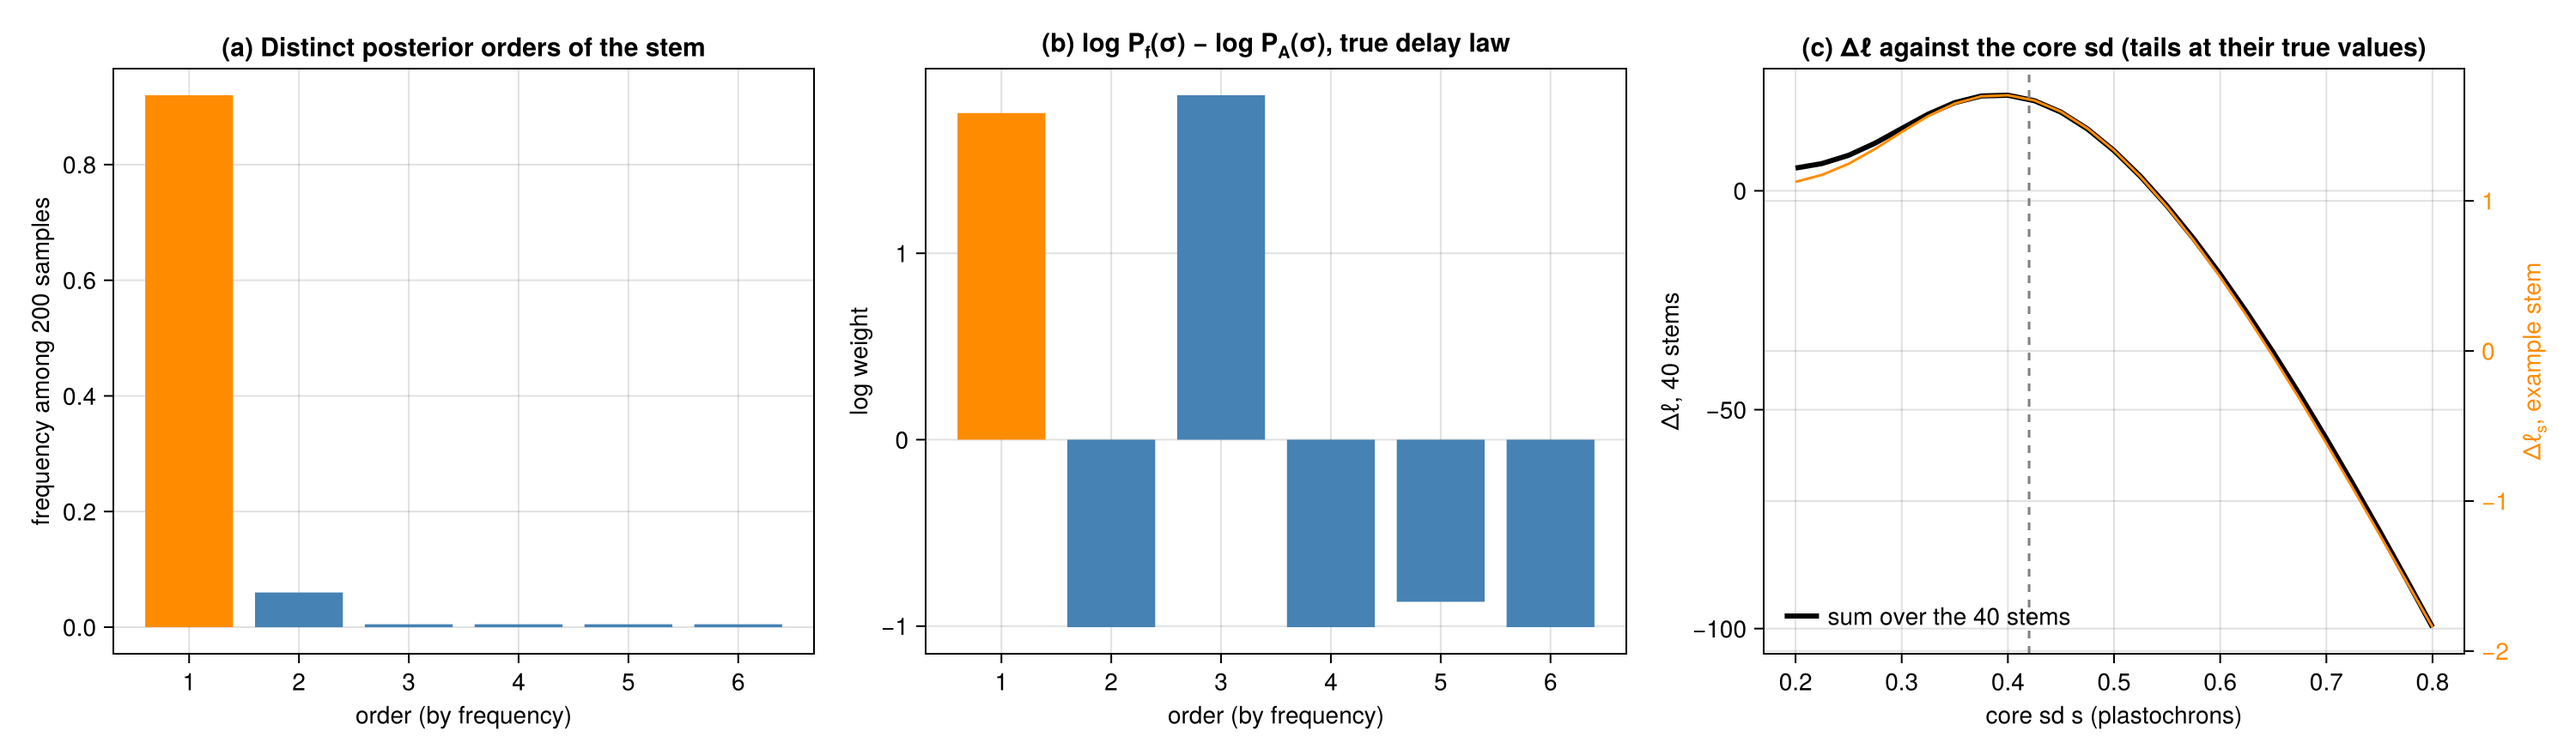
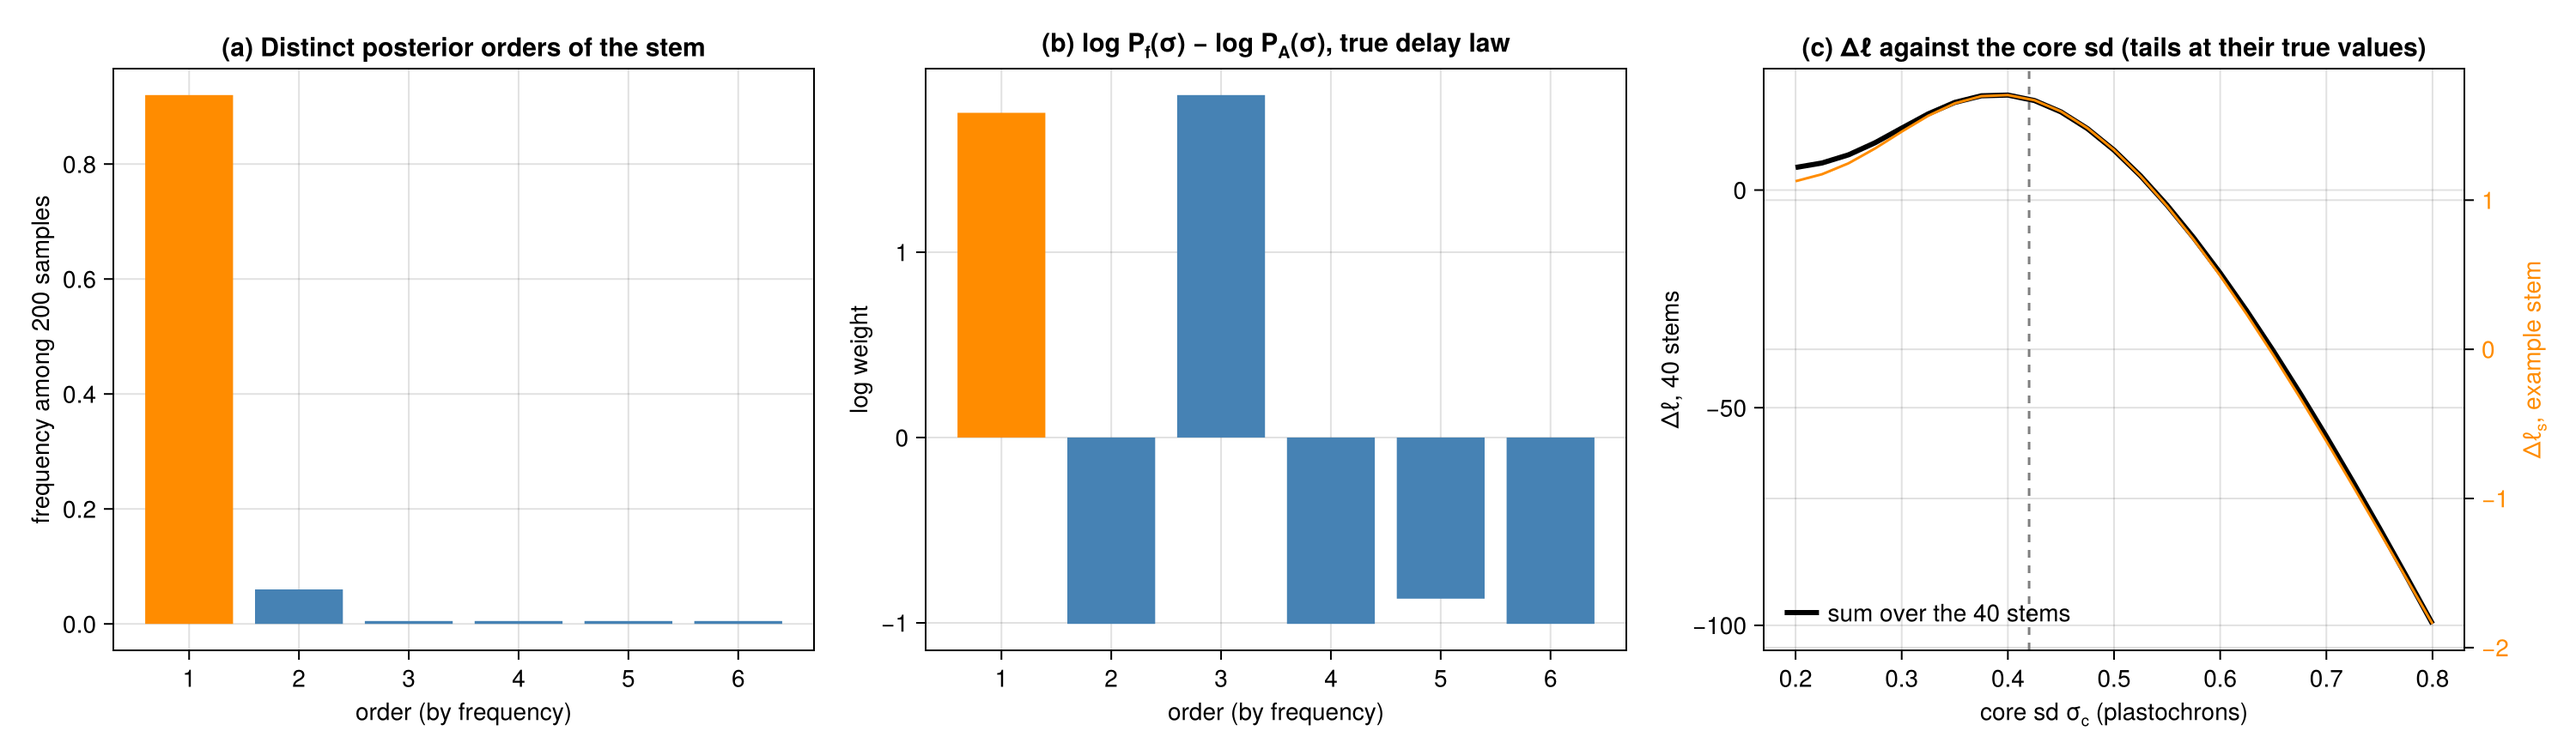
Core sd of the delay law renamed σ_c; PermanentWorkspace defaults to the scaled pass; Figure 3 tidied
- DelayLaw field s renamed σc, and the key :s of delay_law_inference's estimate and se renamed :σc, so that s is only
  the stem index; σ_c in the manual (§5, §6, the worked analysis, the notation table), the README and the tests; the
  simulated commitment sd of the clock-drift script is σ0
- figures e5 and v3 re-rendered with the σ_c label
- PermanentWorkspace(...; logspace = false) by default, as PhyllotaxisModelAD and StemWorkspace (same result, the
  scaled pass falls back to log-space by itself)
- simulator docstrings: the twist rate is ω_s
- Figure 3 of §2.5: shorter caption; figures centred by docs/src/assets/custom.css

diff --git a/docs/src/assets/custom.css b/docs/src/assets/custom.css
@@ -1,0 +1,6 @@
+/* figures centred in the page */
+.content p > img {
+  display: block;
+  margin-left: auto;
+  margin-right: auto;
+}

diff --git a/docs/src/timing.md b/docs/src/timing.md
@@ -143,15 +143,15 @@ Recall the mechanism of [§1.4](problem.md): site ``i`` is ready at time ``i`` (
 ``\tau_i``. Only differences of delays matter, so ``f`` is defined up to a shift, and its core is centred at 0.
 
 **Two sites first.** Sites 1 and 2 are swapped when site 2 commits first: ``2 + e_2 < 1 + e_1``, that is
-``e_1 - e_2 > 1``. If the delays are Gaussian with sd ``s``, their difference is Gaussian with sd ``s\sqrt 2``, and
+``e_1 - e_2 > 1``. If the delays are Gaussian with sd ``\sigma_c``, their difference is Gaussian with sd ``\sigma_c\sqrt 2``, and
 
 ```math
-P(2\,1) = \Phi\!\left(-\frac{1}{s\sqrt 2}\right).
+P(2\,1) = \Phi\!\left(-\frac{1}{\sigma_c\sqrt 2}\right).
 ```
 
-With ``s = 0.42`` plastochron, this is 4.6 %: about one pair of neighbours in twenty. The same reasoning shows why a
+With ``\sigma_c = 0.42`` plastochron, this is 4.6 %: about one pair of neighbours in twenty. The same reasoning shows why a
 Gaussian alone is not the whole story: a displacement by two needs ``e_i - e_{i+2} > 2``, of probability
-``\Phi(-2/(s\sqrt 2)) \approx 4 \times 10^{-4}``, one pair in 2600. Real stems have many more ([§5.6](timing.md)).
+``\Phi(-2/(\sigma_c\sqrt 2)) \approx 4 \times 10^{-4}``, one pair in 2600. Real stems have many more ([§5.6](timing.md)).
 
 **Any number of sites.** The organ at height ``p`` comes from site ``\sigma(p)``. So ``\sigma`` is the order on the
 stem exactly when ``\tau_{\sigma(1)} < \tau_{\sigma(2)} < \dots < \tau_{\sigma(n)}``. Call
@@ -260,7 +260,7 @@ commits before site 2, as it should.
     counts the cell that contains ``t`` for one half (midpoint rule). Counting it in full would treat two times in the
     same cell as ordered, which biases ``\log P_f(\sigma)`` upwards at first order in the step: by +0.28 for an order
     of 6 sites with three displacements. The midpoint rule leaves an error below 0.01. The tests check the two-site
-    closed form ``\Phi(1/(s\sqrt2))``, that the probabilities of all 24 orders of 4 sites sum to 1, and the frequencies
+    closed form ``\Phi(1/(\sigma_c\sqrt2))``, that the probabilities of all 24 orders of 4 sites sum to 1, and the frequencies
     of the orders drawn from the delay law.
 
 A stem of 45 organs is scored in a fraction of a millisecond, and step 1 provides exactly the orders worth scoring:
@@ -307,7 +307,7 @@ seconds: neither the angles nor the permanents are recomputed.
 log-weight ``\log P_f(\sigma) - \log P_A(\sigma)`` of each, under the true delay law: a ratio of two probabilities,
 not the probability of the order under ``f``. The true order is in orange.
 (c) ``\Delta\ell`` summed over the 40 stems (black) and the term of the example stem (orange, right axis), as a
-function of the core sd ``s``, the tails kept at their true values. The dashed line is the true ``s``.*
+function of the core sd ``\sigma_c``, the tails kept at their true values. The dashed line is the true ``\sigma_c``.*
 
 Figure 2 shows the identity at work. On the example stem, the true order carries 90 % of the posterior samples and
 seven others share the rest (a). The true delay law finds the true order about six times more probable than the
@@ -334,25 +334,25 @@ sample size is small is scored imprecisely; more posterior samples help.
 **assumption** — the delay is a precise Gaussian core, plus two exponential tails for sites committed late or early:
 
 ```math
-f = (1 - \pi_L - \pi_E)\, \mathcal N(0, s^2)
-+ \pi_L\, \big(\mathcal N(0, s^2) \ast \mathrm{Exp}(m_L)\big)
-+ \pi_E\, \big(\mathcal N(0, s^2) \ast (-\mathrm{Exp}(m_E))\big).
+f = (1 - \pi_L - \pi_E)\, \mathcal N(0, \sigma_c^2)
++ \pi_L\, \big(\mathcal N(0, \sigma_c^2) \ast \mathrm{Exp}(m_L)\big)
++ \pi_E\, \big(\mathcal N(0, \sigma_c^2) \ast (-\mathrm{Exp}(m_E))\big).
 ```
 
-The core sd ``s`` is the precision of a typical commitment. A fraction ``\pi_L`` of the sites is late by an extra
+The core sd ``\sigma_c`` is the precision of a typical commitment. A fraction ``\pi_L`` of the sites is late by an extra
 exponential delay of mean ``m_L``, and a fraction ``\pi_E`` early by ``m_E``. Why tails? A Gaussian core of sd 0.42
 makes neighbour swaps common but displacements by two very rare ([§5.2](timing.md)). A tail gives exactly what a
 Gaussian cannot: one organ displaced by two or three positions while its neighbours stay in order. For three sites,
 the orders 3 1 2 and 2 3 1 have a probability of 0.03 % under the Gaussian core alone, and 2.4 % under the law of the
 running example, whose tails hold 12 % of the sites.
 
-Three nested variants are fitted: `:core` (``s``), `:late` (``s, \pi_L, m_L``) and `:both` (all five). Comparing their
+Three nested variants are fitted: `:core` (``\sigma_c``), `:late` (``\sigma_c, \pi_L, m_L``) and `:both` (all five). Comparing their
 ``\Delta\ell`` tells whether the orders call for tails, and on which side.
 
 !!! details "The density"
-    A Gaussian of sd ``s`` convolved with an exponential of rate ``\lambda = 1/m`` (an exponentially modified
+    A Gaussian of sd ``\sigma_c`` convolved with an exponential of rate ``\lambda = 1/m`` (an exponentially modified
     Gaussian) has the density
-    ``\lambda \exp\!\big(\lambda(\lambda s^2/2 - x)\big)\, \Phi\big((x - \lambda s^2)/s\big)``, with ``x = z`` for the
+    ``\lambda \exp\!\big(\lambda(\lambda \sigma_c^2/2 - x)\big)\, \Phi\big((x - \lambda \sigma_c^2)/\sigma_c\big)``, with ``x = z`` for the
     late tail and ``x = -z`` for the early one. The mixture is evaluated in log space on `DELAY_GRID` and
     renormalised there.
 
@@ -371,7 +371,7 @@ q_d = P(\text{site } i + d \text{ commits before site } i) = P(e_i - e_{i+d} > d
 - **It has no direction.** ``q_d`` depends on ``f`` only through the law of a *difference* of two delays, which is
   the same whether the off-time sites are late or early. The late/early split rests on rarer patterns of three
   organs (2 3 1 against 3 1 2), and is only weakly identified.
-- **The parameters of ``f`` are readings of its shape.** The core sd ``s``, the tail masses ``\pi`` and ``m``, and
+- **The parameters of ``f`` are readings of its shape.** The core sd ``\sigma_c``, the tail masses ``\pi`` and ``m``, and
   properties of ``f`` itself such as the **off-time fraction** ``P(|e| > 1)`` (`tail_masses`) are not seen directly.
   They follow from the profile only through the assumed shape (a Gaussian core with exponential tails). When that
   shape is unambiguous they are well determined: for light tails, the core and the off-time fraction are recovered.
@@ -387,7 +387,7 @@ it, within its assumed shape: how precise a typical commitment is, and how many 
 ## 5.7 Fit, uncertainty and comparisons
 
 - **Fit.** `fit_delay_law(samples, variant)` maximises ``\Delta\ell`` by Newton's method with a trust region, on
-  unconstrained parameters: ``\log s``; for `:both`, ``\operatorname{logit}(\pi_L + \pi_E)``, the logit of the late
+  unconstrained parameters: ``\log \sigma_c``; for `:both`, ``\operatorname{logit}(\pi_L + \pi_E)``, the logit of the late
   share ``\pi_L/(\pi_L + \pi_E)``, ``\log m_L`` and ``\log m_E``. The tail mass and the late share are separate
   coordinates because the first is better determined than the second. The grid is fixed, so ``\Delta\ell``
   is a smooth function of the parameters. Its gradient and Hessian are exact: forward-mode dual numbers pass through
@@ -397,7 +397,7 @@ it, within its assumed shape: how precise a typical commitment is, and how many 
   therefore measures the uncertainty from the spread of the per-stem slopes ``g_s`` of these terms, not from the
   curvature ``H`` of their sum alone. This is the sandwich covariance
   ``H^{-1}\big(\sum_s g_s g_s^\top\big)H^{-1}``, with exact derivatives. The delta method then gives the standard
-  errors of ``s``, of the tail masses and of the profile ``q_1, \dots, q_4`` (`overtaking`).
+  errors of ``\sigma_c``, of the tail masses and of the profile ``q_1, \dots, q_4`` (`overtaking`).
 - **The profile without a delay law.** `overtaking_profile(samples)` averages, over each stem's posterior samples,
   the fraction of pairs ``d`` apart that are inverted, and pools the stems. Its standard errors are clustered by
   stem. It needs no delay law, so it is also a check of the fitted one: the two profiles should agree.
@@ -439,7 +439,7 @@ it, within its assumed shape: how precise a typical commitment is, and how many 
     standard error of ``\bar T`` is the delta method through the covariance of the fit, and that of ``x\,\bar T``
     combines both, as independent: ``\sqrt{(\bar T\,\mathrm{se}_x)^2 + (x\,\mathrm{se}_{\bar T})^2}``.
 
-**Code.** `DelayLaw(s; πL, mL, πE, mE)`, `rand([rng,] f)`, `delay_logdensity(f)`, `tail_masses(f; a = 1)`;
+**Code.** `DelayLaw(σc; πL, mL, πE, mE)`, `rand([rng,] f)`, `delay_logdensity(f)`, `tail_masses(f; a = 1)`;
 `loglik_order_exact(σ, f)` (or `(σ, logg, grid, γ)`); `order_samples(order_posterior(m, fit; nsamples), η)`,
 `stem_terms(samples, f)`, `relative_loglik(samples, f)` (`stem_terms(samples, logP)` scores any law of the order given
 as ``\sigma \mapsto \log P(\sigma)``); `fit_delay_law`, `delay_law_inference`, `shared_core_test`; the profile:

diff --git a/docs/src/validation.md b/docs/src/validation.md
@@ -27,7 +27,7 @@ The stems are made to resemble the *Arabidopsis* data:
 
 The orders come from independent commitment delays ([§5.2](timing.md)), with three delay laws (in plastochrons):
 
-| scenario | core sd ``s`` | late tail | early tail | ``P(\lvert e\rvert > 1)`` |
+| scenario | core sd ``\sigma_c`` | late tail | early tail | ``P(\lvert e\rvert > 1)`` |
 |---|---|---|---|---|
 | no tails | 0.42 | — | — | 1.7 % |
 | light tails | 0.42 | 5 % (mean 1.5) | 5.4 % (mean 1.04) | 6.5 % |
@@ -138,7 +138,7 @@ beats the true one (triangles, the optimism of the fit).*
 
 Truth, then the `:both` fits of the three replicates (the readings of [§5.6](timing.md)):
 
-| scenario | ``s`` | ``P(e > 1)`` | ``P(e < -1)`` | ``P(\lvert e\rvert > 1)`` | tails gain (``\Delta\ell``) |
+| scenario | ``\sigma_c`` | ``P(e > 1)`` | ``P(e < -1)`` | ``P(\lvert e\rvert > 1)`` | tails gain (``\Delta\ell``) |
 |---|---|---|---|---|---|
 | no tails | 0.42 → 0.32, 0.39, 0.37 | 0.009 → 0.010, 0.029, 0.033 | 0.009 → 0.008, 0.002, 0.001 | 0.017 → 0.018, 0.031, 0.034 | 1.6, 0.2, 0.4 |
 | light tails | 0.42 → 0.41, 0.41, 0.38 | 0.035 → 0.043, 0.045, 0.043 | 0.030 → 0.018, 0.021, 0.026 | 0.065 → 0.061, 0.065, 0.069 | 129, 125, 96 |
@@ -147,7 +147,7 @@ Truth, then the `:both` fits of the three replicates (the readings of [§5.6](ti
 **What we find**, from the most to the least robust:
 
 1. **No false tails.** When the truth has none, the tails add 0.2 to 1.6 units of log-likelihood. The `:core` fit then
-   recovers the law: ``s`` = 0.40, 0.43, 0.42 and an off-time fraction of 0.013, 0.019, 0.018 for 0.017. The `:both`
+   recovers the law: ``\sigma_c`` = 0.40, 0.43, 0.42 and an off-time fraction of 0.013, 0.019, 0.018 for 0.017. The `:both`
    fit is too flexible here ([§5.6](timing.md)). In two replicates it puts nearly every site in a short "tail" (mean
    0.2 plastochron) that only reshapes the core, and its off-time fraction drifts to 0.031–0.034, about one standard
    error (0.015) above the truth. When the tails gain little, read the `:core` fit.
@@ -156,7 +156,7 @@ Truth, then the `:both` fits of the three replicates (the readings of [§5.6](ti
    error for the light-tailed law. For the heavy-tailed law it is about 0.02 too high in all three replicates (about
    2 se): a 10 % overestimate when a fifth of the organs are off time. Without tails it drifts (point 1).
 4. **The core sd is recovered when the tails are light** (0.38–0.41 for 0.42), **but not when they are heavy.** For
-   the heavy-tailed law (47 % of the sites in a tail), the fitted core collapses: ``s`` falls to about 0.01, below the
+   the heavy-tailed law (47 % of the sites in a tail), the fitted core collapses: ``\sigma_c`` falls to about 0.01, below the
    step of the delay grid (0.05), where a narrower core no longer changes anything. Its standard error is
    misleadingly small. A narrow core plus more tail mass predicts nearly the same orders. The overestimated off-time
    fraction of point 3 comes with this collapse; a shared core ([§6.5](validation.md)) usually removes both.
@@ -188,7 +188,7 @@ as real data would have.
 
 Truth, then the shared-core fit of each replicate (estimate ± se):
 
-| replicate | shared ``s`` | off-time, light tails | off-time, heavy tails | difference | likelihood ratio (``p``) |
+| replicate | shared ``\sigma_c`` | off-time, light tails | off-time, heavy tails | difference | likelihood ratio (``p``) |
 |---|---|---|---|---|---|
 | truth | 0.42 and 0.39 | 0.065 | 0.197 | 0.132 | |
 | 1 | 0.40 ± 0.02 | 0.062 ± 0.006 | 0.200 ± 0.010 | 0.138 ± 0.012 | 2.7 (0.10) |
@@ -206,18 +206,18 @@ from the orders, with no delay law: 0.100, 0.102, 0.102 for ``q_1`` (± 0.008), 
 **What we find.**
 
 - **When the light-tailed group holds the core, the shared core removes the bias** (replicates 1 and 2). The shared
-  ``s`` (0.40–0.41) lies between the two true cores. The heavy-tailed off-time fraction falls from 0.215–0.218 to
+  ``\sigma_c`` (0.40–0.41) lies between the two true cores. The heavy-tailed off-time fraction falls from 0.215–0.218 to
   0.200–0.203, for 0.197, and the difference between the groups is recovered within its standard error.
 - **The likelihood ratio does not reject the shared core**, even though the true cores differ by 0.03. A difference
   this small is beyond what 60 stems can detect, and it does no visible harm to the estimates.
 - **It can fail, and this can be seen** (replicate 3). There the shared core collapses as well, and the light-tailed
   group's off-time fraction is pulled up (0.093 for 0.065). This is the true maximum, not a failure of the optimiser:
-  profiled over ``s``, that light-tailed data set loses only 1 unit of log-likelihood when its core shrinks from 0.4 to
-  0.01, while the heavy-tailed one gains 3. Its own fit gave ``s`` = 0.38 ± 0.04, but the standard error hides a
+  profiled over ``\sigma_c``, that light-tailed data set loses only 1 unit of log-likelihood when its core shrinks from 0.4 to
+  0.01, while the heavy-tailed one gains 3. Its own fit gave ``\sigma_c`` = 0.38 ± 0.04, but the standard error hides a
   lopsided profile: the data bound the core from above, not from below.
 
 **In practice.** Compare the groups by their profiles. To read them in terms of the law, fit each group alone, then
-together. If the shared ``s`` stays close to the light-tailed group's own ``s``, report the shared-core estimates. If it collapses far below it, the light-tailed group does not hold the core:
+together. If the shared ``\sigma_c`` stays close to the light-tailed group's own ``\sigma_c``, report the shared-core estimates. If it collapses far below it, the light-tailed group does not hold the core:
 report the separate fits, with the caveat of [§6.4](validation.md) point 4.
 
 ## 6.6 The exact order likelihood and the weights
@@ -251,7 +251,7 @@ Here the orders are simulated from a clock of intervals ``1 + \xi_i``, ``\xi_i \
 followed by Gaussian commitment delays of sd 0.3. The delay law is fitted to the **true** orders (no angles), so only
 the timing model is tested: three data sets of 60 stems of 45 organs per value of ``\sigma_\xi``, and one of 1200
 stems to see the bias without noise. The *matched* law is the independent Gaussian with the same rate of neighbour
-swaps (``s^2 = 0.3^2 + \sigma_\xi^2/2``).
+swaps (``\sigma_c^2 = 0.3^2 + \sigma_\xi^2/2``).
 
 | ``\sigma_\xi`` | tails gain, 60 stems | off-time, 60 stems | tails gain, 1200 stems | off-time, 1200 stems | off-time, matched law |
 |---|---|---|---|---|---|

diff --git a/docs/src/angles.md b/docs/src/angles.md
@@ -115,14 +115,11 @@ p(y) = \sum_{o,\,\psi} p(o)\,p(\psi) \int_0^{2\pi} \frac{d\phi}{2\pi} \int p(\ka
 ![Plate diagram of the angle likelihood](figures/m3_plate_diagram.svg)
 
 *Figure 3. The model as a graph, with the law of the order of [§4](propensity.md). Circles are unknown, the shaded
-circle is observed, and the shaded square is the stem length ``x_{sp}`` below each organ, which is given. Each arrow
-points from a quantity to the ones whose law depends on it. A box (plate) repeats what is inside it: once per stem,
-and within each stem once per organ. Dashed boxes are the fixed parameters of the priors (named as in
-`PhyllotaxisPrior` and `TorsionPrior`). ``z_{sp}`` says whether angle ``p`` of stem ``s`` is an outlier
-([§2.4](angles.md)). Double circles are discrete unknowns summed out exactly: the order ``\sigma_s`` ([§3](orders.md)),
-the orientation ``o_s`` and the divergence ``\psi_s`` ([§2.6](angles.md)), and ``z_{sp}`` (the mixture of
-[§2.4](angles.md)). Single circles inside the plates are continuous unknowns integrated out numerically: the offset
-``\phi_s``, the precision ``\kappa_s`` and the twist rate ``\omega_s`` ([§2.6](angles.md)).*
+circle is observed and the square is given; arrows point to the quantities whose law they set, and the plates repeat
+their content per stem and per organ. Double circles are summed out exactly: the order ``\sigma_s`` ([§3](orders.md)),
+``o_s`` and ``\psi_s`` ([§2.6](angles.md)), and the outlier indicator ``z_{sp}`` ([§2.4](angles.md)). Single circles
+are integrated numerically ([§2.6](angles.md)). Dashed boxes are the fixed parameters of `PhyllotaxisPrior` and
+`TorsionPrior`.*
 
 Everything here is fixed by this page except ``P(\sigma)``, the law of the order. The models of the package differ
 *only* in ``P(\sigma)`` (the propensity model of [§4](propensity.md), the timing laws of [§5](timing.md)), which is

diff --git a/docs/src/workflow.md b/docs/src/workflow.md
@@ -138,7 +138,7 @@ The estimates of the `:both` law (± robust se), with the truth:
 
 | | wild type | truth | mutant | truth |
 |---|---|---|---|---|
-| core sd ``s`` (plastochron) | 0.41 ± 0.03 | 0.42 | 0.30 ± 0.09 | 0.42 |
+| core sd ``\sigma_c`` (plastochron) | 0.41 ± 0.03 | 0.42 | 0.30 ± 0.09 | 0.42 |
 | late, ``P(e > 1)`` | 0.032 ± 0.006 | 0.035 | 0.141 ± 0.018 | 0.113 |
 | early, ``P(e < -1)`` | 0.038 ± 0.008 | 0.028 | 0.019 ± 0.009 | 0.027 |
 | off time, ``P(\lvert e\rvert > 1)`` | 0.071 ± 0.008 | 0.062 | 0.160 ± 0.014 | 0.140 |
@@ -189,7 +189,7 @@ maturation takes the same time throughout flowering), so the counts give the pla
 # counts: one vector per plant, the cumulative number of open flowers at the end of each day (NaN: a day not recorded)
 fl = fit_flowering(counts_wt)
 T = mean_plastochron(fl, [1:40 for _ in 1:50])      # mean plastochron of the measured organs (ranks 1–40), in hours
-in_hours(inf2.estimate[1].s, inf2.se[1].s, T)       # the shared core sd, in hours
+in_hours(inf2.estimate[1].σc, inf2.se[1].σc, T)       # the shared core sd, in hours
 ```
 
 `fit_flowering` fits a flowering rate that rises, then declines from a change point specific to each plant, until the
@@ -206,7 +206,7 @@ Over the measured ranks, the plastochron of the median plant shortens from about
 7.67 ± 0.14 h in the wild type and 7.78 ± 0.14 h in the mutant (truth 7.65 h). `in_hours` multiplies, and combines the
 two uncertainties, treated as independent since they come from different data:
 
-| core sd ``s`` | in plastochrons | in hours | truth (hours) |
+| core sd ``\sigma_c`` | in plastochrons | in hours | truth (hours) |
 |---|---|---|---|
 | wild type, fitted alone | 0.41 ± 0.03 | 3.1 ± 0.3 | 3.2 |
 | shared core | 0.38 ± 0.05 | 2.9 ± 0.4 | 3.2 |

diff --git a/README.md b/README.md
@@ -64,7 +64,7 @@ prof.q, prof.se                              # the result to report; inf.profile
 Fit each group on its own (for a mutant, against its own co-segregant wild type). Then compare their **overtaking
 profiles**, `compare_profiles(prof_wt, prof_mutant)`: how often an organ is overtaken by the one 1, 2 or 3 places
 up. This is what the angles identify, with no assumption on the shape of the delay law. The fitted law interprets
-it: the precision of a typical organ (`inf.estimate.s`) and the fraction of organs off their turn
+it: the precision of a typical organ (`inf.estimate.σc`) and the fraction of organs off their turn
 (`inf.estimate.off`) are reliable only when off-time organs are rare. When one group has many, fitting the two groups
 together with one shared precision (`fit_delay_law([smp_wt, smp_mutant])`, tested by `shared_core_test`) can recover
 them. The manual explains why, and shows how well each quantity is recovered on simulated stems.

diff --git a/docs/src/notation.md b/docs/src/notation.md
@@ -21,7 +21,7 @@
 | ``W``, ``\rho_{p,d}`` | weight matrix, marginal probability ``P(\sigma(p) = p + d)`` |
 | ``X``, ``\mu`` | switch variable and margin above the fold, in noise units ([§5.1](timing.md)) |
 | ``\tau_i``, ``e_i``, ``f`` | commitment time and delay of site ``i`` (plastochrons), delay law |
-| ``s``, ``\pi_L``, ``m_L``, ``\pi_E``, ``m_E`` | core sd; fraction and mean extra delay of late sites; of early sites |
+| ``\sigma_c``, ``\pi_L``, ``m_L``, ``\pi_E``, ``m_E`` | core sd; fraction and mean extra delay of late sites; of early sites |
 | ``q_d`` | overtaking profile: ``P(\text{site } i + d \text{ commits before site } i)`` ([§5.6](timing.md)) |
 | ``\Delta\ell``, ``\Delta\ell_s`` | ``\log p(y \mid f) - \log p(y \mid A)``, summed over stems; for stem ``s`` |
 | ``t_p`` | commitment time of the organ at height ``p``, ``t_p = \tau_{\sigma(p)}`` |
